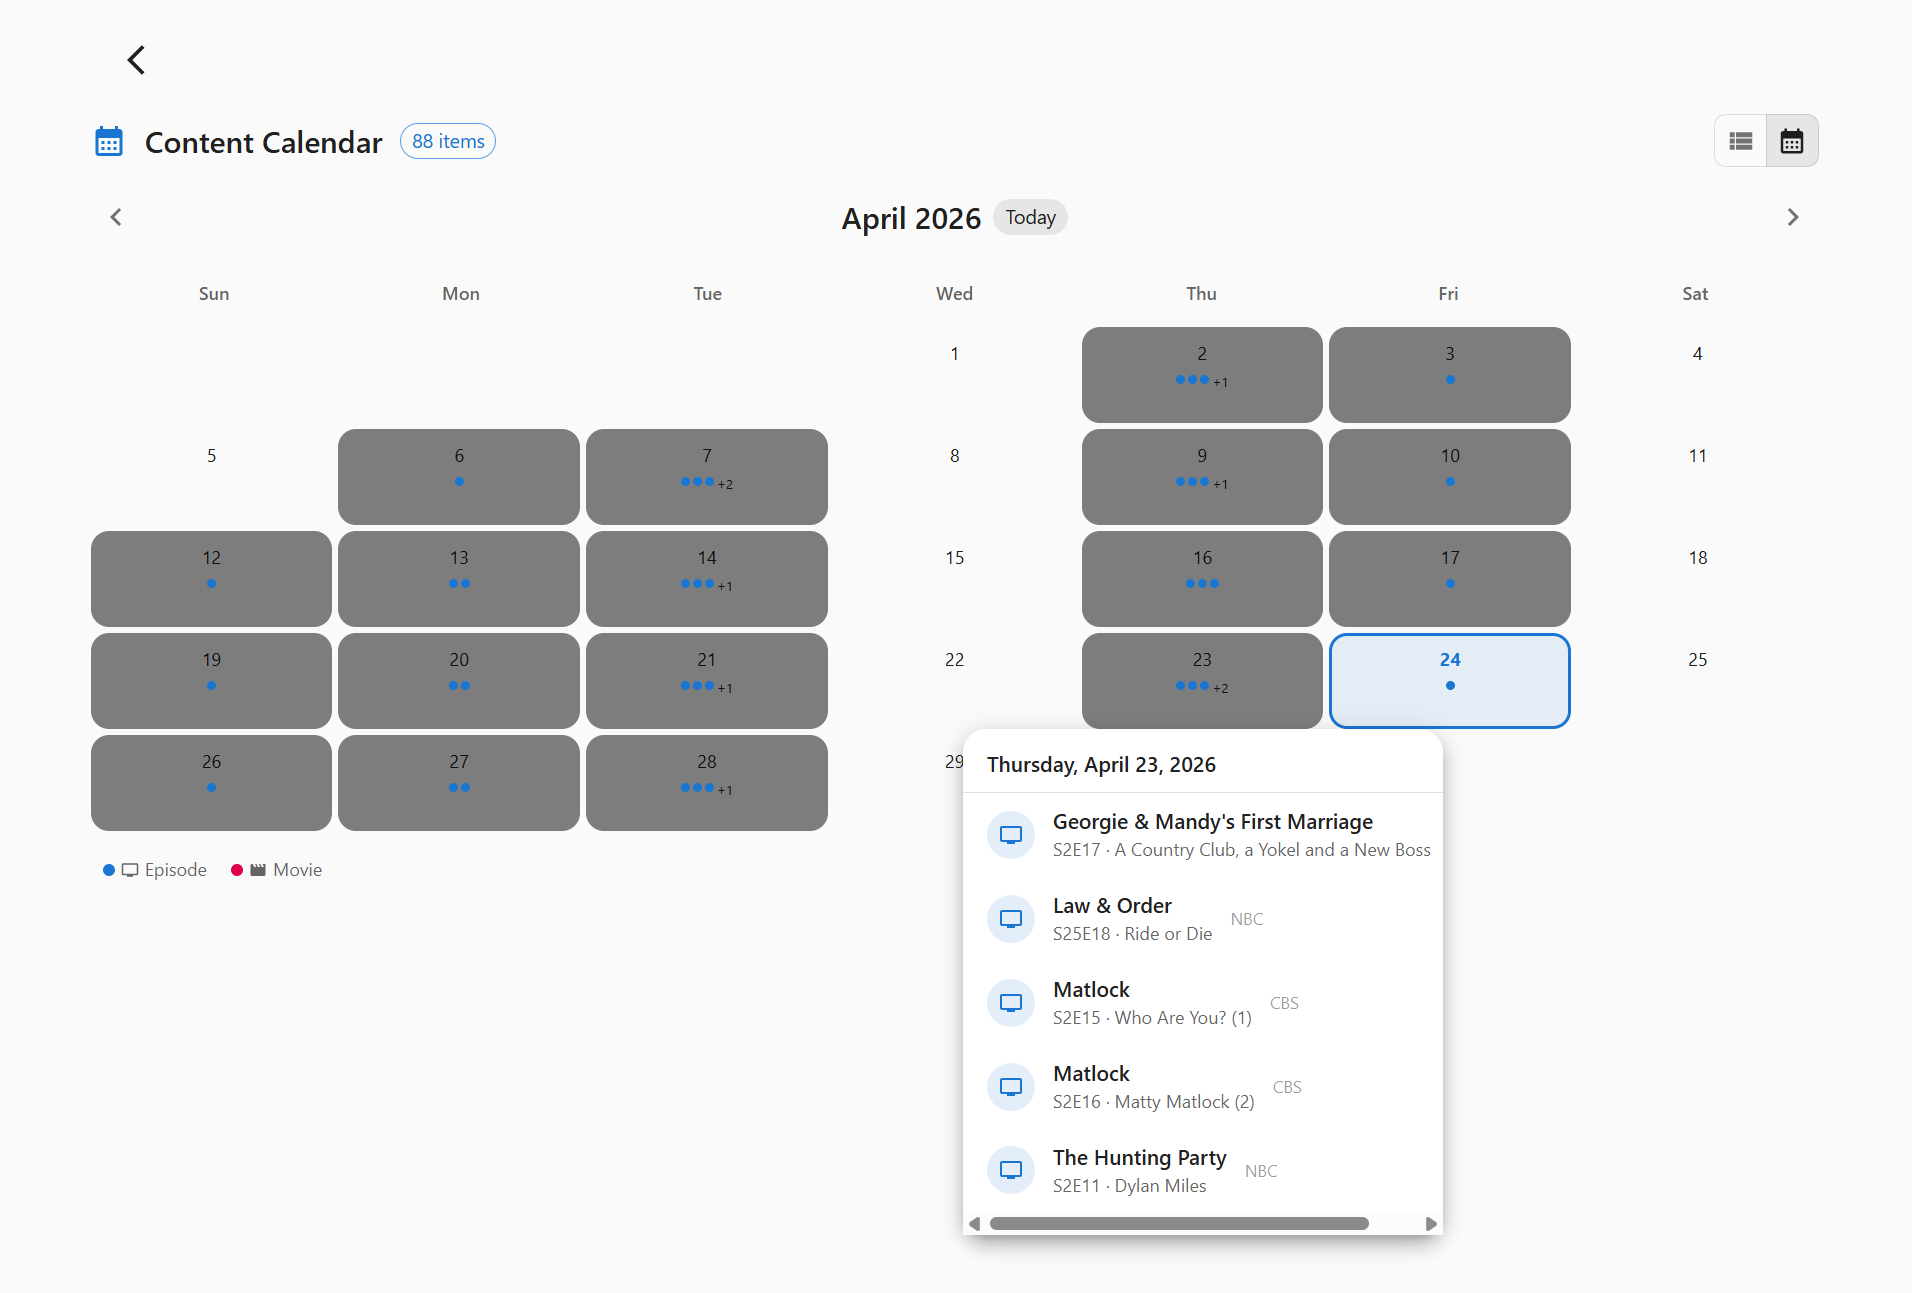
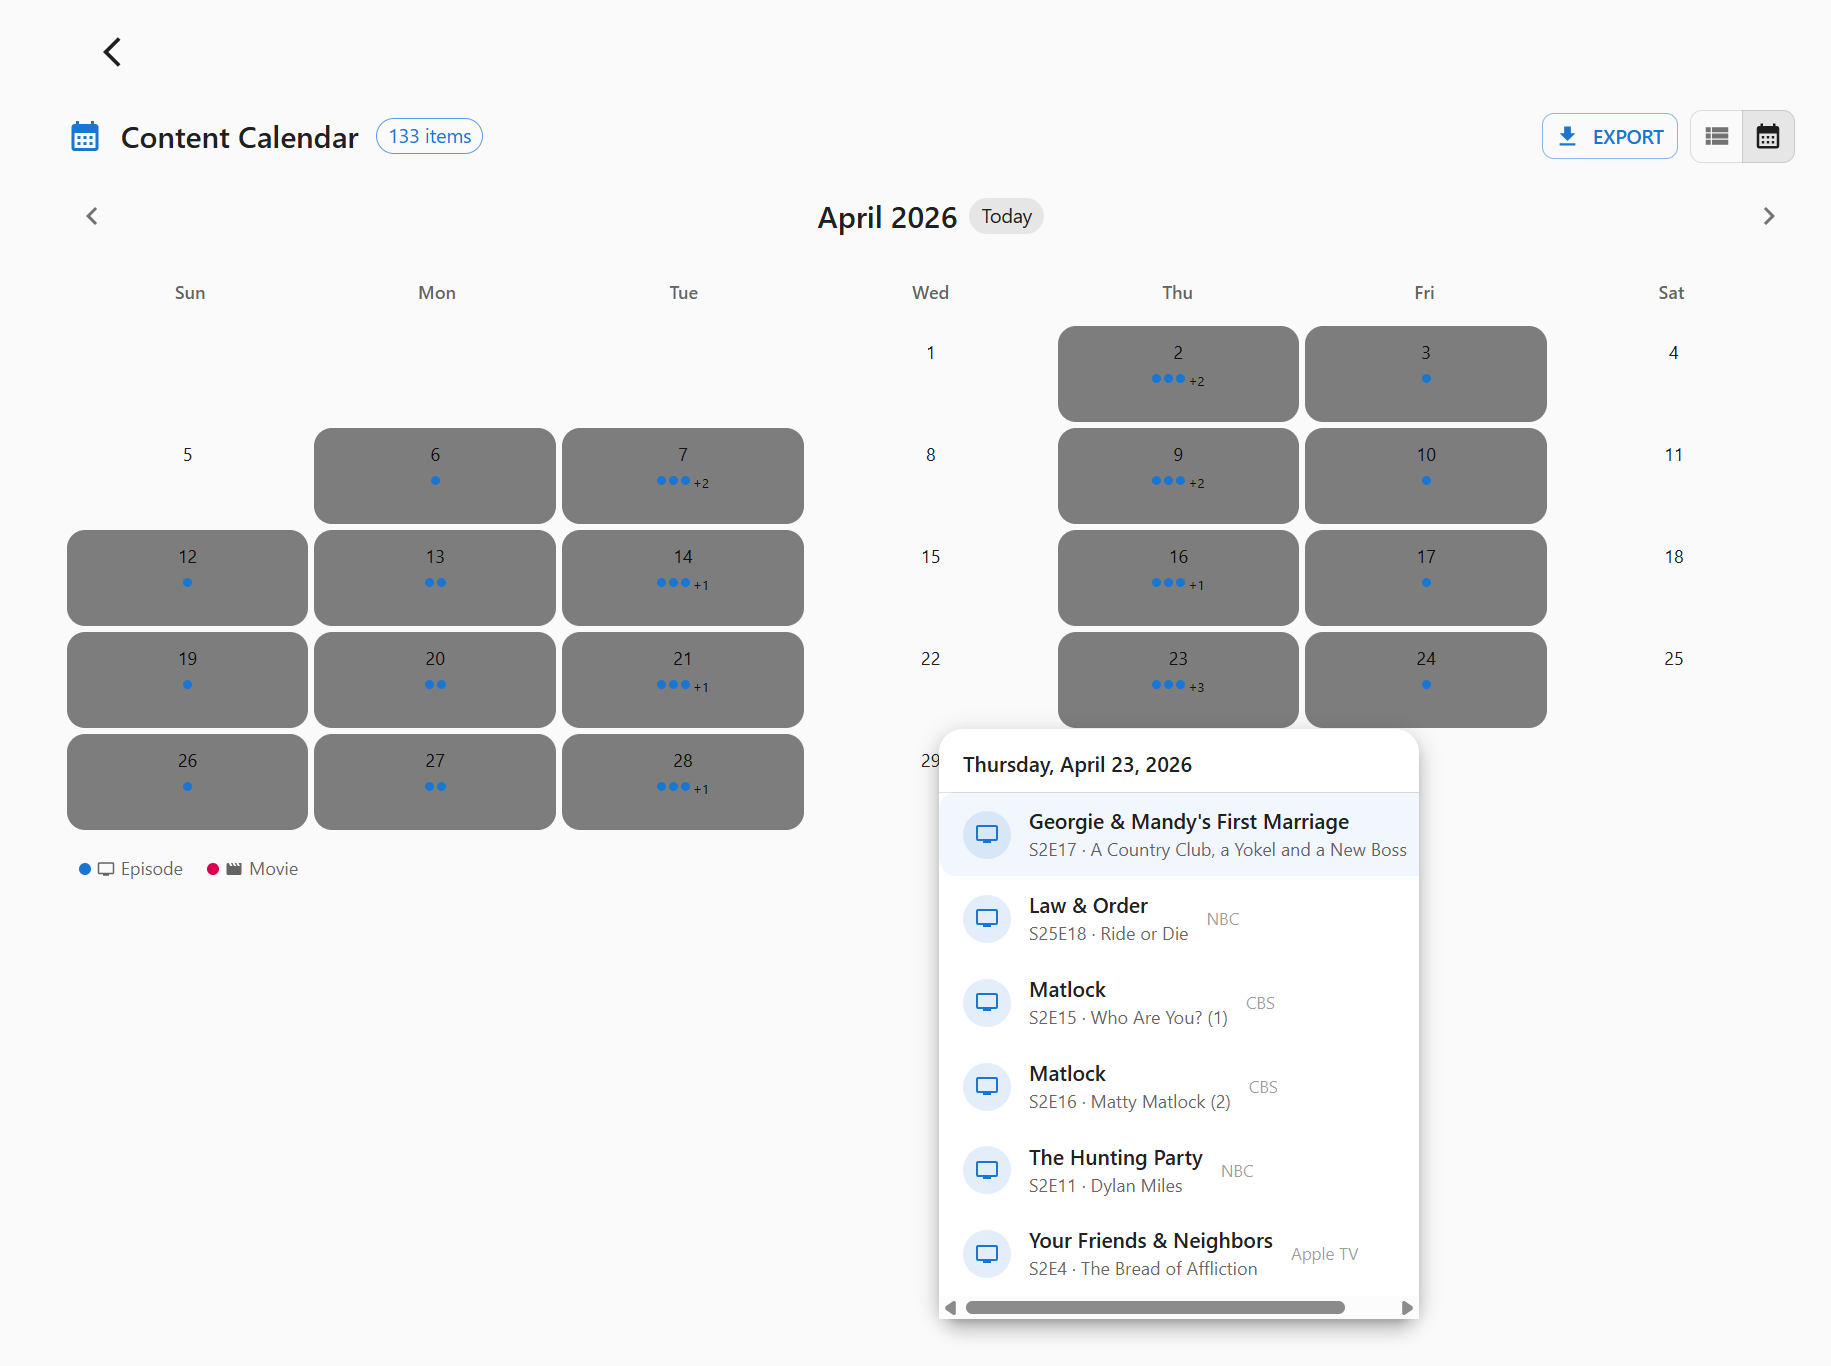
Update calendar documentation for custom ranges and export

diff --git a/pages/calendar.md b/pages/calendar.md
@@ -23,7 +23,7 @@ The Calendar offers two display modes that you can toggle between at any time. Y
 
 The agenda view shows a scrollable, day-by-day list of content. Each day section lists the episodes and movies airing or releasing on that date, including the show or movie title, episode name (for TV), and a link to the relevant detail page.
 
-This view is ideal for seeing everything in order at a glance, particularly on mobile devices.
+This view is ideal for seeing everything in order at a glance, particularly on mobile devices. It's also the only view with the **Date Range** selector (see below), since the grid view always shows a full month at a time.
 
 ### Grid View (Month Calendar)
 
@@ -35,9 +35,25 @@ The grid view displays a traditional month calendar layout. Each day cell shows 
 
 Use the **previous** and **next** arrow buttons to navigate between months. When you navigate to a month outside the already-fetched date range, the calendar automatically fetches new data for that period.
 
+## Choosing a Date Range
+
+While in Agenda view, a **Date Range** dropdown lets you control exactly which window of content is loaded:
+
+- **Default** — 30 days in the past to 60 days in the future (the standard view)
+- **Next 7 Days** / **Next 30 Days** — upcoming content only
+- **This Month** — everything airing or releasing in the current calendar month
+- **Last 30 Days** — recently aired/released content only
+- **Custom Range…** — pick your own **Start** and **End** dates, up to a maximum span of 1 year
+
+Your selected range (and preset choice) is remembered between visits, so the calendar reopens exactly how you left it. Signing out resets it back to the Default range.
+
+## Exporting to Your Calendar App
+
+Use the **Export** button in the header to download an `.ics` file containing every episode and movie currently loaded in the calendar (based on your selected date range). Import the file into Google Calendar, Apple Calendar, Outlook, or any other calendar app that supports the standard iCalendar format to see your KeepWatching schedule alongside your other events. Each event links back to the show or movie's detail page in KeepWatching.
+
 ## Date Range & Caching
 
-By default the calendar loads content spanning 30 days in the past and 60 days into the future from today. When you navigate to a month outside that range, the app fetches the additional data automatically. Already-fetched data is cached for 5 minutes before being considered stale and refreshed.
+By default the calendar loads content spanning 30 days in the past and 60 days into the future from today — or whichever preset/custom range you've selected, as described above. In Grid view, navigating to a month outside the already-fetched range automatically fetches the additional data for that month. Already-fetched data is cached for 5 minutes before being considered stale and refreshed.
 
 ## Content Shown
 
@@ -52,4 +68,5 @@ Each item links to its show or movie detail page so you can mark it watched or v
 
 - Use the **Agenda** view as your day-to-day check on what aired recently
 - Use the **Grid** view for planning ahead across a full month
+- Switch to a **Custom Range** and export to `.ics` when you want a specific window (e.g. a season's premiere week) in your personal calendar app
 - Combine the Calendar with the **Upcoming Episodes** and **Upcoming Releases** sections on the Home page for a complete picture of your content schedule

diff --git a/README.md b/README.md
@@ -38,7 +38,7 @@ A modern React-based web application for tracking your favorite TV shows and mov
 
 ### 📅 Calendar & History
 
-- **Content Calendar**: View upcoming and recently aired episodes and movies in an agenda list or month grid view
+- **Content Calendar**: View upcoming and recently aired episodes and movies in an agenda list or month grid view, with selectable date range presets (or a custom range) and `.ics` export for your calendar app
 - **Watch History**: Full paginated history of every episode and movie you've watched, with rich filtering
 - **Prior Watch Tracking**: Record watch history for shows you watched before joining KeepWatching, using original air dates
 - **Rewatch History**: Prior watches and rewatches are clearly labelled and filterable in your history
@@ -116,8 +116,10 @@ A modern React-based web application for tracking your favorite TV shows and mov
 ### Content Calendar
 
 - Agenda (list) and grid (month) views showing episodes and movies by air/release date
-- Defaults to 30 days past and 60 days future; automatically expands when navigating to new months
-- View preference (agenda vs. grid) persisted across sessions
+- Defaults to 30 days past and 60 days future; grid view automatically expands when navigating to new months
+- Agenda view adds a Date Range selector with presets (Next 7/30 Days, This Month, Last 30 Days) and a Custom Range picker (up to a 1-year span)
+- Export the currently loaded range to an `.ics` file for import into Google Calendar, Apple Calendar, Outlook, etc.
+- View preference (agenda vs. grid) and selected date range persisted across sessions, and reset on logout
 - Compact calendar embedded in the Home page TV Shows and Movies tabs for quick glance
 
 ### Watch History
@@ -199,7 +201,7 @@ Comprehensive notification system keeping you informed about new episodes, movie
 
 ### [Calendar](./pages/calendar.md)
 
-Visual content calendar showing upcoming and recently aired episodes and movies. Toggle between an agenda list view and a month grid view. Accessible from the TV Shows and Movies tabs on the Home page, or directly via the navigation menu.
+Visual content calendar showing upcoming and recently aired episodes and movies. Toggle between an agenda list view and a month grid view, choose a date range preset or custom range, and export to `.ics` for your own calendar app. Accessible from the TV Shows and Movies tabs on the Home page, or directly via the navigation menu.
 
 ### [Watch History](./pages/watchHistory.md)
 